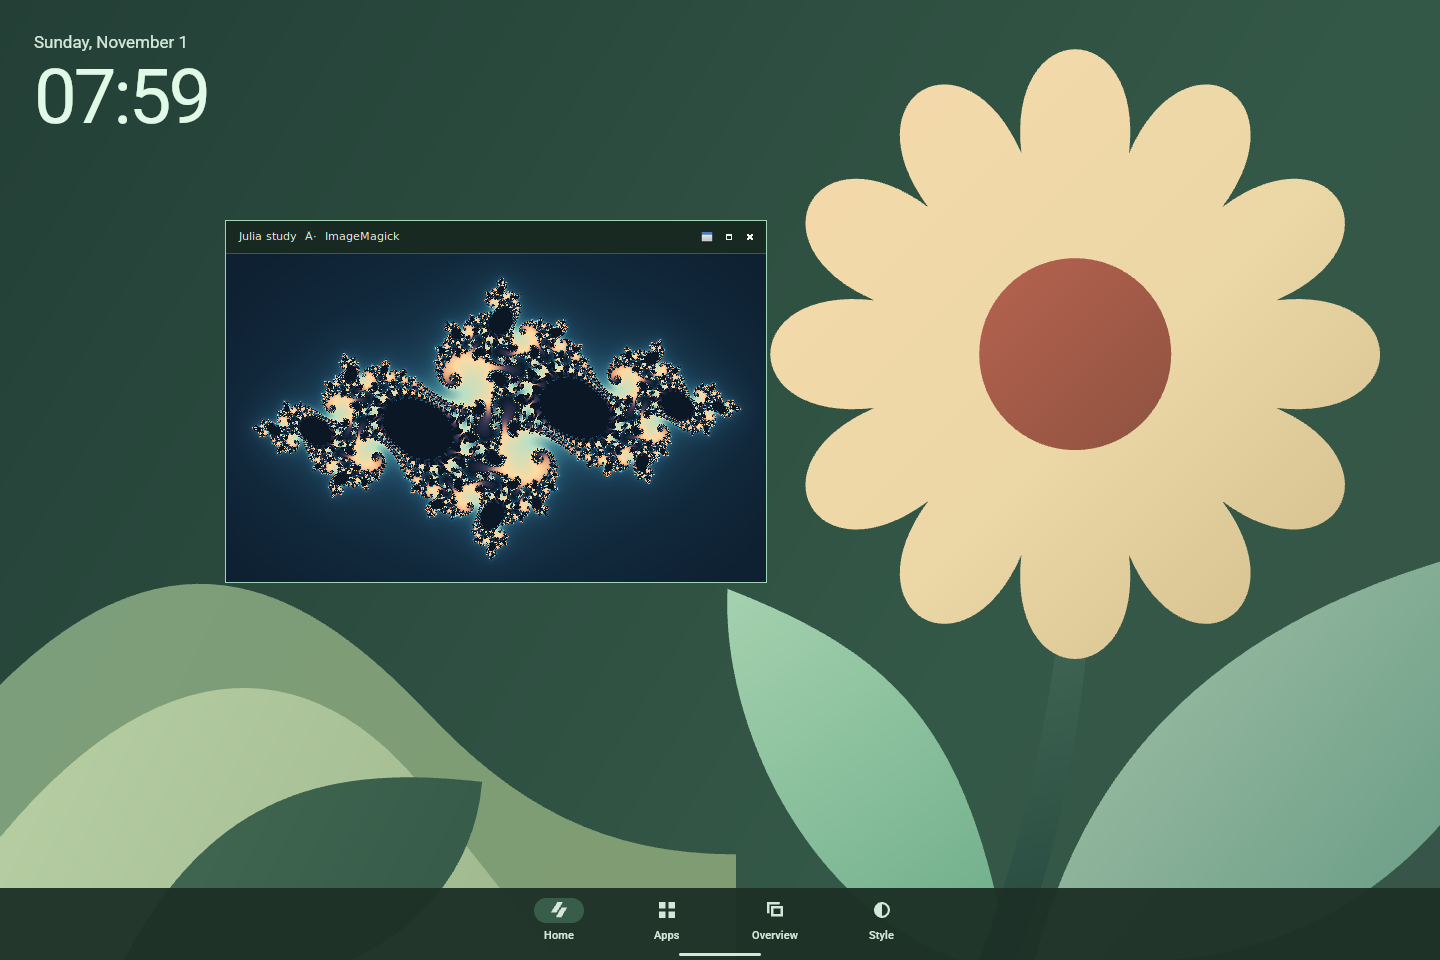
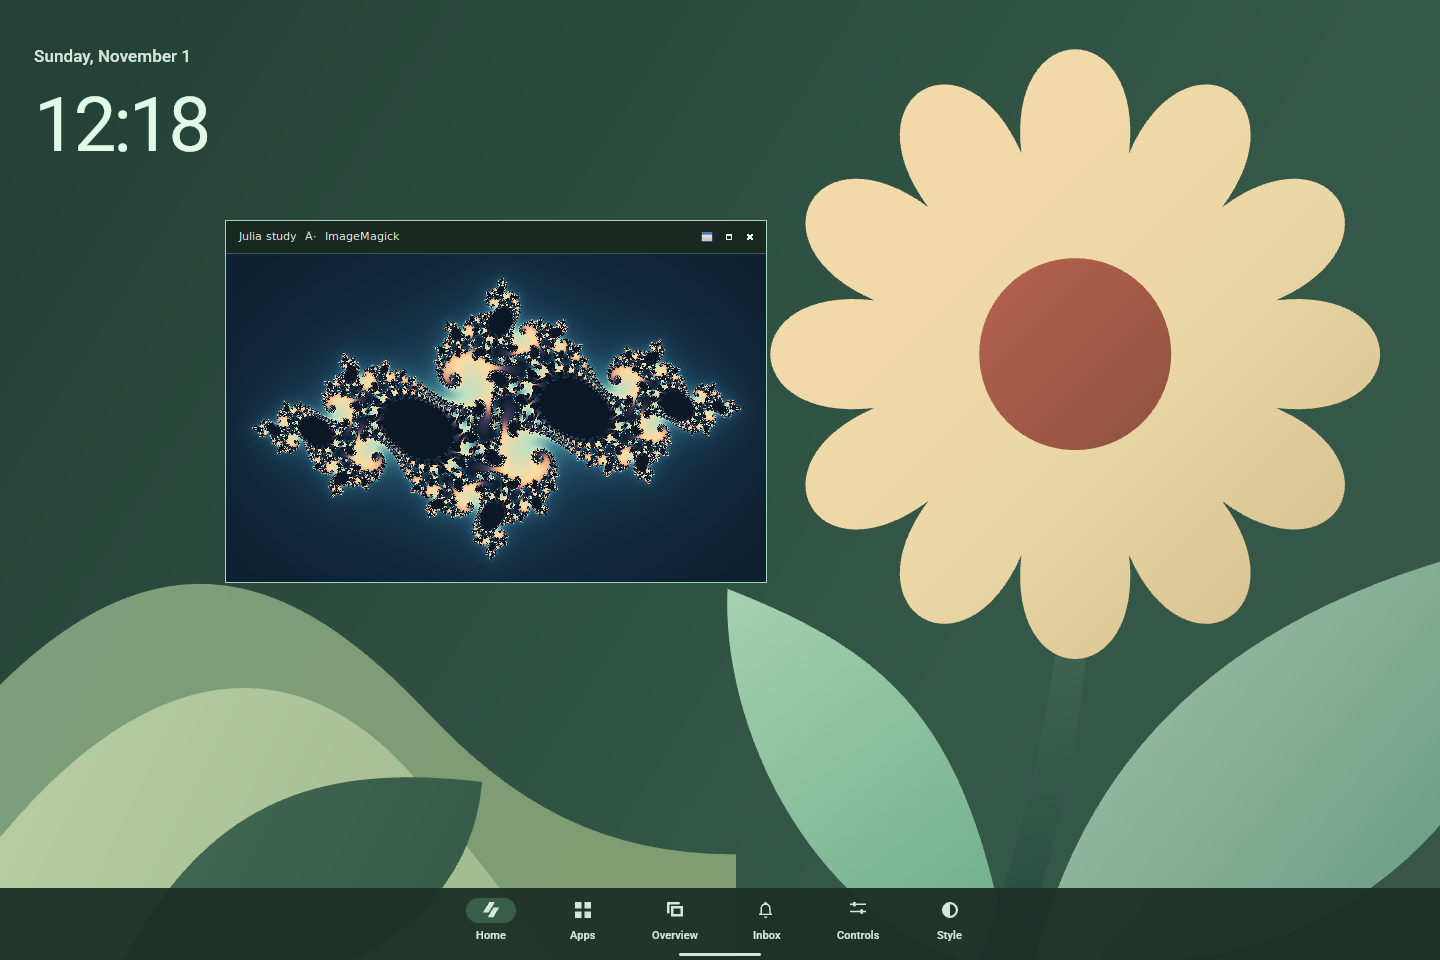
Publish Graphite captures of pins, window actions, notifications and system controls

diff --git a/samples/LinuxDesktop/README.md b/samples/LinuxDesktop/README.md
@@ -11,6 +11,14 @@ These captures come from an X11 session running Skia Graphite on Mesa Lavapipe. 
 | ![Windows Start with installed applications](screenshots/windows-launcher.webp) | ![macOS application search](screenshots/macos-launcher.webp) | ![Material app drawer](screenshots/material-launcher.webp) |
 | ![Windows taskbar and decorated client](screenshots/windows-session.webp) | ![macOS menu bar, Dock and decorated client](screenshots/macos-session.webp) | ![Material navigation and decorated client](screenshots/material-session.webp) |
 
+| Pinned apps | Window arrangement |
+| --- | --- |
+| ![Four installed applications pinned in Start](screenshots/favorites.webp) | ![Window actions and named workspace destinations](screenshots/window-actions.webp) |
+| **Notification banner above an active client** | **Quick Settings** |
+| ![Notification above a focused external application](screenshots/toast.webp) | ![Volume slider, wireless radio and battery state](screenshots/quick-settings.webp) |
+
+The Quick Settings capture uses a real PulseAudio null sink and isolated NetworkManager and UPower test services. See the [notification center](screenshots/notifications.webp) for actions on earlier messages.
+
 ## Architecture
 
 | Layer | Responsibility |
